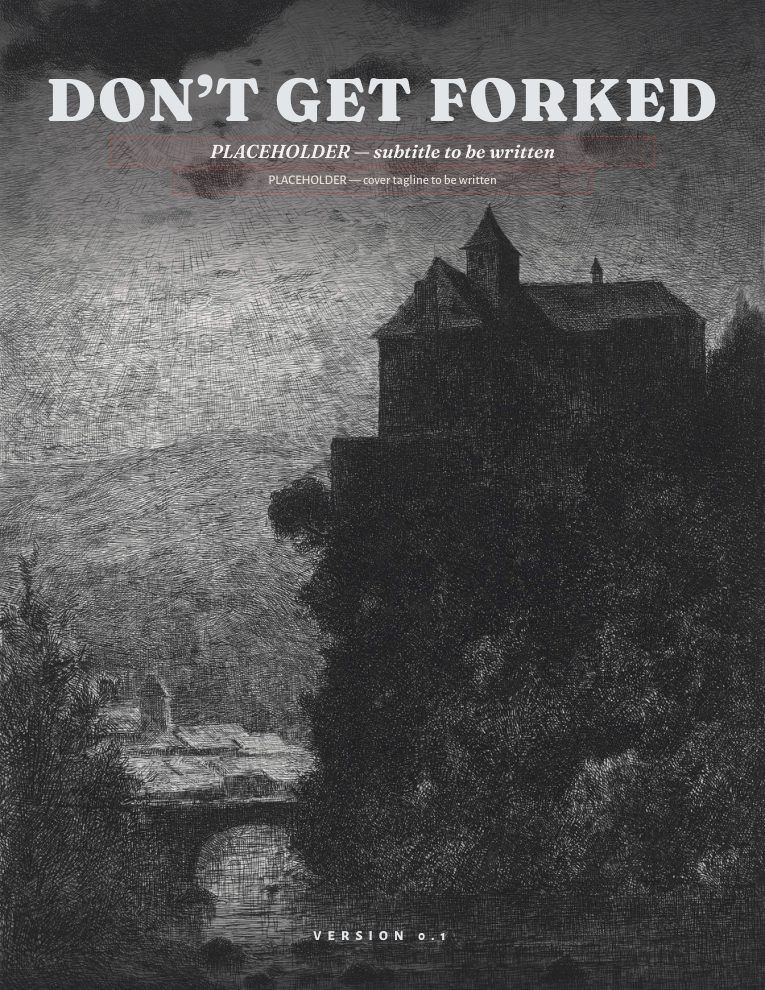
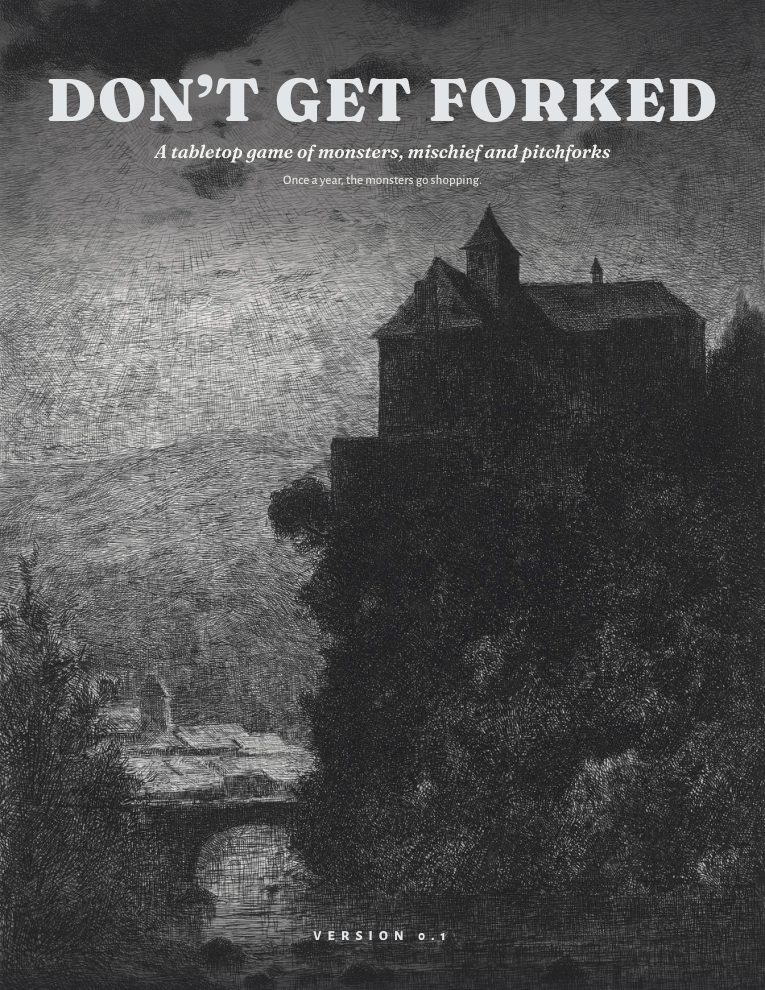
Castle Duties (C10) and the cover, credits and back-cover text (C11)
Six Duties with one shared edge, in Chapter 2, the Foundry config and the simulator; each
Entity's default Duty in its sheet. Subtitle, tagline and blurb replace the cover and
back-cover placeholders; the portal cover picture is refreshed.

Portal-Update: The rulebook cover now has its subtitle and tagline, and the castle's six household jobs are written.

Changed region(s): [[0.2105, 0.1212, 0.8118, 0.2121]]

diff --git a/book/src/chapters/12-ch02.html b/book/src/chapters/12-ch02.html
@@ -47,6 +47,20 @@
     <p>Every ability does one of four things: raise a die one size; use the ability’s trait instead of the one called for; roll the Monster die without risking Suspicion; or open an approach nobody else can take. All of them still need a roll (Chapter 3).</p>
   </aside>
 
+  <h3>Castle Duties</h3>
+  <p>Every Entity keeps one job at the castle and shops for one kind of item. <strong>At a location whose list item is your Duty’s kind, your trait die is one size larger on your own rolls there</strong>; it counts as that roll’s one raise (Chapter 3). Each Entity’s entry gives its default Duty; if two defaults clash in a party, the second player picks another or rolls a d6 again.</p>
+  <div class="keep"><table class="tbl wide">
+    <thead><tr><th>d6</th><th>Duty</th><th>Shops for</th><th>Where in town</th><th>At the castle</th></tr></thead>
+    <tbody>
+      <tr><td class="num">1</td><td><strong>Cook</strong></td><td>food and drink</td><td>the baker, the butcher, the tavern cellar</td><td>Keeps the castle fed and knows every kitchen door</td></tr>
+      <tr><td class="num">2</td><td><strong>Gardener</strong></td><td>plants and seeds</td><td>the market garden, the florist, the seed merchant</td><td>Knows what grows where, and what’s poisonous</td></tr>
+      <tr><td class="num">3</td><td><strong>Librarian</strong></td><td>books and paper</td><td>the bookseller, the printer, the schoolhouse</td><td>Reads the town’s notices and signs</td></tr>
+      <tr><td class="num">4</td><td><strong>Butler</strong></td><td>silver, china and linen</td><td>the silversmith, the china shop</td><td>Knows how fine houses run, and where they keep the good spoons</td></tr>
+      <tr><td class="num">5</td><td><strong>Handyman</strong></td><td>tools and hardware</td><td>the smithy, the ironmonger, the carpenter</td><td>Knows how locks and hinges work</td></tr>
+      <tr><td class="num">6</td><td><strong>Tailor</strong></td><td>cloth and costumes</td><td>the draper, the tailor, the hatter</td><td>Keeps everyone’s disguises in one piece</td></tr>
+    </tbody>
+  </table></div>
+
   <h3>The Eight</h3>
   <article class="entry" id="entity-1">
     <h3>Dracula</h3>
@@ -54,6 +68,7 @@
     <p class="sig"><strong>Mesmerise</strong> (signature): open an approach with Charm. He bends a mind with a look.</p>
     <p class="pick"><strong>Gift: Shape of the Night.</strong> <em>Bat</em> (default): use Nimble instead of the trait called. He flits up to the window. · <em>Mist</em>: roll the Monster die without risking Suspicion. If he shows, it’s only fog. · <em>Wolf</em>: raise a trait die one size. The strength and speed of a wolf.</p>
     <p class="pick"><strong>Perk.</strong> <em>Hypnotic Eyes</em> (default): on Charm rolls, the Monster shows only if it beats your trait die by 2 or more. · <em>Old Money</em>: a Cost on a Charm roll is never Suspicion +1. · <em>Wall-Crawler</em>: in a chase you can always roll Nimble.</p>
+    <p class="pick"><strong>Castle Duty</strong> (default): Butler.</p>
     <p class="sig"><strong>Weakness: Garlic</strong> (Always). Every kitchen in town has some, and the mob knows it.</p>
     <p class="sig"><strong>Tell: No Reflection.</strong> A shop window shows everyone but him.</p>
     <p class="placeholder">PLACEHOLDER — the costume and revealed portraits.</p>
@@ -64,6 +79,7 @@
     <p class="sig"><strong>Brute Force</strong> (signature): use Brawn instead of the trait called. Stronger than any man, it breaks what others pick.</p>
     <p class="pick"><strong>Gift: Made, Not Born.</strong> <em>Mountain Stride</em> (default): open an approach with Nimble. He bounds over walls the way he crossed the glaciers. · <em>Hovel Watcher</em>: roll the Monster die without risking Suspicion. He learned to watch unseen. · <em>Book-Learned</em>: raise a trait die one size. He taught himself from books.</p>
     <p class="pick"><strong>Perk.</strong> <em>Strong Back</em> (default): you carry a Huge piece alone. · <em>Tireless</em>: carrying doesn’t make your Nimble smaller. · <em>Built to Last</em>: you slip free from the lock-up on a Success or a Cost.</p>
+    <p class="pick"><strong>Castle Duty</strong> (default): Handyman.</p>
     <p class="sig"><strong>Weakness: Fire</strong> (Soon). Someone has to light the torches.</p>
     <p class="sig"><strong>Tell: Head and Shoulders.</strong> He stands a head above the whole crowd, and no costume hides it.</p>
     <p class="placeholder">PLACEHOLDER — the costume and revealed portraits.</p>
@@ -74,6 +90,7 @@
     <p class="sig"><strong>Ancient Lore</strong> (signature): use Wits instead of the trait called. It knew this trick three thousand years ago.</p>
     <p class="pick"><strong>Gift: Secrets of the Tomb.</strong> <em>Royal Bearing</em> (default): open an approach with Charm. They still bow to a pharaoh. · <em>Just a Costume</em>: roll the Monster die without risking Suspicion. On festival night, who’d believe a real one? · <em>Old Curse</em>: raise a trait die one size. A muttered curse, and the lock gives.</p>
     <p class="pick"><strong>Perk.</strong> <em>Patience of Ages</em> (default): “lose a Turn” is never your Cost. · <em>Keeper of Treasures</em>: “drop an item” is never your Cost. · <em>Fear the Curse</em>: the mob in your local chase is 1 easier: nobody wants to get too close.</p>
+    <p class="pick"><strong>Castle Duty</strong> (default): Librarian.</p>
     <p class="sig"><strong>Weakness: A Loose Thread</strong> (Soon). Once someone grabs a loose end, it all starts to unravel.</p>
     <p class="sig"><strong>Tell: Dust and Spice.</strong> A trail of dust and a smell of old spices wherever it walks.</p>
     <p class="placeholder">PLACEHOLDER — the costume and revealed portraits.</p>
@@ -84,6 +101,7 @@
     <p class="sig"><strong>Good Dog</strong> (signature): roll the Monster die without risking Suspicion. If the wolf shows, the crowd sees a very large dog.</p>
     <p class="pick"><strong>Gift: The Wolf Within.</strong> <em>Keen Nose</em> (default): use Wits instead of the trait called. It smells the way in. · <em>Through the Hedge</em>: open an approach with Brawn. It goes straight through. · <em>Howl</em>: raise a trait die one size. A howl that freezes the crowd for a moment.</p>
     <p class="pick"><strong>Perk.</strong> <em>Night Runner</em> (default): your local chase starts at Lead 2. · <em>Shortcut</em>: the way out is 2 easier when you roll it. · <em>Fetch</em>: picking up a dropped item doesn’t cost your action.</p>
+    <p class="pick"><strong>Castle Duty</strong> (default): Gardener.</p>
     <p class="sig"><strong>Weakness: Hounds</strong> (Soon). Someone lets the hunting dogs out.</p>
     <p class="sig"><strong>Tell: Eyebrows That Meet.</strong> Brows that meet in the middle, and a little too much hair everywhere.</p>
     <p class="placeholder">PLACEHOLDER — the costume and revealed portraits.</p>
@@ -94,6 +112,7 @@
     <p class="sig"><strong>Unseen</strong> (signature): roll the Monster die without risking Suspicion. When the monster shows, there’s nothing to see.</p>
     <p class="pick"><strong>Gift: A Scientist’s Tricks.</strong> <em>Through the Gap</em> (default): open an approach with Nimble. He slips through as the door swings shut. · <em>Poltergeist</em>: raise a trait die one size. Things move by themselves, and everyone looks the other way. · <em>Work It Out</em>: use Wits instead of the trait called. A scientist’s mind finds another way.</p>
     <p class="pick"><strong>Perk.</strong> <em>Out of Sight</em> (default): trouble gets you caught only while you carry loot or furniture: they can’t see you, but they can see a floating candlestick. · <em>Hidden Pockets</em>: captured, you keep what you carry. · <em>Light Step</em>: the loud way costs you no Suspicion.</p>
+    <p class="pick"><strong>Castle Duty</strong> (default): Tailor.</p>
     <p class="sig"><strong>Weakness: Flour</strong> (Soon). Someone throws a bag of flour, and there he is.</p>
     <p class="sig"><strong>Tell: Bandages and Goggles.</strong> A wrapped head, dark goggles, a false nose, and a sneeze from nowhere.</p>
     <p class="placeholder">PLACEHOLDER — the costume and revealed portraits.</p>
@@ -104,6 +123,7 @@
     <p class="sig"><strong>Through the Wall</strong> (signature): open an approach with Sly, but not while you carry loot or furniture: nothing you carry passes through. It drifts in where there’s no door.</p>
     <p class="pick"><strong>Gift: Haunting.</strong> <em>Chill</em> (default): raise a trait die one size. A sudden cold, and fingers fumble. · <em>Whisper</em>: use Charm instead of the trait called. A voice in the ear. · <em>Fade</em>: roll the Monster die without risking Suspicion. A trick of the light.</p>
     <p class="pick"><strong>Perk.</strong> <em>Spectral</em> (default): you get past group obstacles without rolling. · <em>Rattle</em>: the Monster showing on your roll is Suspicion +1, not +2: nobody takes rattling chains seriously. · <em>Already Dead</em>: cornered in a local chase, you lose your next Turn instead of being captured.</p>
+    <p class="pick"><strong>Castle Duty</strong> (default): Butler.</p>
     <p class="sig"><strong>Weakness: Cold Iron</strong> (Always). Horseshoes, railings, a poker from the fire: every street has some.</p>
     <p class="sig"><strong>Tell: Cold Spot.</strong> Candles gutter and breath fogs wherever it drifts.</p>
     <p class="placeholder">PLACEHOLDER — the costume and revealed portraits.</p>
@@ -114,6 +134,7 @@
     <p class="sig"><strong>Hedge Spell</strong> (signature): raise a trait die one size, on any roll in the same place, hers or a friend’s.</p>
     <p class="pick"><strong>Gift: Witchcraft.</strong> <em>Broomstick</em> (default): open an approach with Sly. In over the rooftops, quiet as an owl. · <em>Black Cat</em>: roll the Monster die without risking Suspicion. Everyone blames the cat. · <em>A Potion for That</em>: use Wits instead of the trait called. There’s a potion for everything.</p>
     <p class="pick"><strong>Perk.</strong> <em>Familiar’s Warning</em> (default): when you arrive, a Tell check goes off only if a second d6 also rolls 4–6: the cat warns you. · <em>Fly by Night</em>: in a chase you can always roll Wits. · <em>Wise Woman</em>: a Cost on your Wits roll is never “lose a Turn”.</p>
+    <p class="pick"><strong>Castle Duty</strong> (default): Cook.</p>
     <p class="sig"><strong>Weakness: Rowan</strong> (Soon). A sprig of rowan, the old charm against witches: somebody’s grandmother always has one.</p>
     <p class="sig"><strong>Tell: A Black Cat.</strong> A black cat follows her everywhere and stares at people.</p>
     <p class="placeholder">PLACEHOLDER — the costume and revealed portraits.</p>
@@ -125,6 +146,7 @@
     <p class="sig"><strong>The Draught</strong> (signature): change form, Jekyll to Hyde or back; the new form lasts until the next draught. When the Monster shows on one of Jekyll’s rolls, Hyde takes over, free.</p>
     <p class="pick"><strong>Gift: The Other Self.</strong> <em>Doctor’s Bag</em> (default): raise a trait die one size. The right instrument for the job. · <em>Pillar of Society</em>: roll the Monster die without risking Suspicion. A respectable doctor having a funny turn (if the Monster shows, Hyde still takes over). · <em>Trample</em>: open an approach with Brawn. A d4 as Jekyll, a d12 as Hyde.</p>
     <p class="pick"><strong>Perk.</strong> <em>Practised Hand</em> (default): changing back to Jekyll costs no charge. · <em>Steady Nerves</em>: Hyde takes over only if the Monster beats your trait die by 2 or more. · <em>Brute Strength</em>: as Hyde, carrying doesn’t make your Nimble smaller.</p>
+    <p class="pick"><strong>Castle Duty</strong> (default): Librarian.</p>
     <p class="sig"><strong>Weakness: A Familiar Face</strong> (Soon). Someone in the mob recognises the good doctor.</p>
     <p class="sig"><strong>Tell: The Wrong Hand.</strong> One hand a gentleman’s, the other hairy and knotted.</p>
     <p class="placeholder">PLACEHOLDER — the costume and revealed portraits.</p>

diff --git a/book/src/chapters/99-back-cover.html b/book/src/chapters/99-back-cover.html
@@ -1,9 +1,10 @@
 <section class="back-cover" id="back-cover">
   <div class="back-inner">
-    <p class="back-lead placeholder">PLACEHOLDER — back-cover headline</p>
-    <p class="placeholder">PLACEHOLDER — back-cover text to be written.</p>
+    <p class="back-lead">Once a year, the monsters go shopping.</p>
+    <p>Every year, on festival night, the whole town dresses up as monsters. Every year, a few real ones walk in with them.</p>
+    <p>You play Dracula, Frankenstein’s creature, the Mummy, the Werewolf, the Invisible Man, a Ghost, a Witch or Jekyll &amp; Hyde: housemates in a crumbling castle with a shopping list to fill before dawn. Hide behind the Mask, or let the Monster out and risk the town’s Suspicion. Grab what the castle needs, and maybe a nice armchair. And if it all goes wrong, run, because the mob has pitchforks.</p>
     <figure class="art back-art" data-art="back-moonrise"></figure>
-    <p class="back-tagline placeholder">PLACEHOLDER — tagline to be written</p>
+    <p class="back-tagline">For 3–5 players and a Storyteller · 2–3 hours · ages 12+ · play online with the Foundry Virtual Tabletop system</p>
     <p class="back-title">Don’t Get Forked <span>· Version 0.1</span></p>
   </div>
 </section>

diff --git a/book/src/chapters/14-ch04.html b/book/src/chapters/14-ch04.html
@@ -9,7 +9,7 @@
   <p class="placeholder">PLACEHOLDER — the festival’s name and customs.</p>
 
   <h3>The Shopping List</h3>
-  <p>Before the raid, the Storyteller rolls the shopping list on a table (premade raids give their own): <strong>3 items on Easy, 4 on Standard and Hard</strong>. One or two are <strong>essentials</strong>; the rest are <strong>extras</strong>. Each item points to a kind of location in town.</p>
+  <p>Before the raid, the Storyteller rolls the shopping list on a table (premade raids give their own): <strong>3 items on Easy, 4 on Standard and Hard</strong>. One or two are <strong>essentials</strong>; the rest are <strong>extras</strong>. Each item is one of six kinds (Chapter 2).</p>
 
   <h3>The Town</h3>
   <p>Every town is built from the same parts:</p>

diff --git a/book/src/chapters/00-cover.html b/book/src/chapters/00-cover.html
@@ -1,7 +1,7 @@
 <section class="cover" id="cover">
   <h1 class="cover-title">Don’t Get Forked</h1>
-  <p class="cover-subtitle placeholder">PLACEHOLDER — subtitle to be written</p>
-  <p class="cover-tagline placeholder">PLACEHOLDER — cover tagline to be written</p>
+  <p class="cover-subtitle">A tabletop game of monsters, mischief and pitchforks</p>
+  <p class="cover-tagline">Once a year, the monsters go shopping.</p>
   <p class="cover-edition">Version 0.1</p>
   <figure class="art cover-art" data-art="cover-castle"></figure>
 </section>

diff --git a/book/src/chapters/01-credits.html b/book/src/chapters/01-credits.html
@@ -1,6 +1,6 @@
 <section class="credits" id="credits">
   <h2 class="credits-title">Don’t Get Forked</h2>
-  <p class="credits-sub placeholder">PLACEHOLDER — subtitle to be written</p>
+  <p class="credits-sub">A tabletop game of monsters, mischief and pitchforks</p>
   <p class="credits-edition">Version 0.1</p>
 
   <dl class="credits-list">

diff --git a/docs/DESIGN.md b/docs/DESIGN.md
@@ -80,6 +80,8 @@ Living document. The **Pitch** is Richard's. **Decisions** are only what Richard
 | 2026-10-05 | **C7 — the Mummy and the Werewolf, full sheets.** The Mummy: Gift **Secrets of the Tomb** (Royal Bearing: open an approach with Charm, default · Just a Costume: the Monster die without risking Suspicion · Old Curse: raise a die); Perk **Patience of Ages** (default: "lose a Turn" is never your Cost) · **Keeper of Treasures** ("drop an item" is never your Cost) · **Fear the Curse** (the mob in your local chase is 1 easier); Weakness **A Loose Thread, Soon**; Tell **Dust and Spice**. The Werewolf: Gift **The Wolf Within** (Keen Nose: use Wits instead, default · Through the Hedge: open an approach with Brawn · Howl: raise a die); Perk **Night Runner** (default: your local chase starts at Lead 2) · **Shortcut** (the way out is 2 easier when you roll it) · **Fetch** (picking up a dropped item doesn't cost your action); Weakness **Hounds, Soon**; Tell **Eyebrows That Meet**. | As recommended; from Conan Doyle, Loudon and Victorian tales and folklore (no film silver or wolfsbane). Simulated: every Gift and Perk within ±1.7; the Mummy −1.0, the Werewolf +0.1 |
 | 2026-10-05 | **C8 — the Invisible Man and a Ghost, full sheets; Through the Wall changed.** The Invisible Man: Gift **A Scientist's Tricks** (Through the Gap: open an approach with Nimble, default · Poltergeist: raise a die · Work It Out: use Wits instead); Perk **Out of Sight** (default: Trouble gets you caught only while you carry loot or furniture) · **Hidden Pockets** (captured, you keep what you carry) · **Light Step** (the loud way costs you no Suspicion); Weakness **Flour, Soon**; Tell **Bandages and Goggles**. A Ghost: Gift **Haunting** (Chill: raise a die, default · Whisper: use Charm instead · Fade: the Monster die without risking Suspicion); Perk **Spectral** (default: past group obstacles without rolling) · **Rattle** (the Monster showing on your roll is +1 Suspicion, not +2) · **Already Dead** (cornered in a local chase, you lose your next Turn instead of being captured); Weakness **Cold Iron, Always**; Tell **Cold Spot**. **Through the Wall** now opens an approach with **Sly** (not Nimble) and can't be used while the Ghost carries loot or furniture. | As recommended; from Wells, Wilde and folklore. The Ghost simulated at +3.8 win points with the old Through the Wall (target ±2.5); with the change +1.5 to +2.2. Every Gift and Perk within ±2.0 |
 | 2026-10-05 | **C9 — the Witch and Jekyll & Hyde, full sheets.** A Witch: Gift **Witchcraft** (Broomstick: open an approach with Sly, default · Black Cat: the Monster die without risking Suspicion · A Potion for That: use Wits instead); Perk **Familiar's Warning** (default: a Tell check where you arrive goes off only if a second d6 also rolls 4–6) · **Fly by Night** (in a chase you can always roll Wits) · **Wise Woman** (a Cost on your Wits roll is never "lose a Turn"); Weakness **Rowan, Soon**; Tell **A Black Cat**. Jekyll & Hyde: Gift **The Other Self** (Doctor's Bag: raise a die, default · Pillar of Society: the Monster die without risking Suspicion · Trample: open an approach with Brawn); Perk **Practised Hand** (default: changing back to Jekyll costs no charge) · **Steady Nerves** (Hyde takes over only if the Monster beats the trait die by 2+) · **Brute Strength** (as Hyde, carrying doesn't make Nimble smaller); Weakness **A Familiar Face, Soon**; Tell **The Wrong Hand**. | As recommended; from folklore (no film water) and Stevenson. All eight Entities now written. Simulated, full roster: Entities −1.4 to +2.1, Gifts and Perks −2.0 to +1.8 win points (target ±2.5) |
+| 2026-10-05 | **C10 — the Castle Duties:** six, one per kind of list item (a d6): **Cook** (food and drink), **Gardener** (plants and seeds), **Librarian** (books and paper), **Butler** (silver, china and linen), **Handyman** (tools and hardware), **Tailor** (cloth and costumes), each with its shops in town and a role at the castle. One shared edge: at a location whose list item is your Duty's kind, your trait die is one size larger on your own rolls there (it counts as the roll's one raise). Defaults: Dracula Butler, the creature Handyman, the Mummy Librarian, the Werewolf Gardener, the Invisible Man Tailor, the Ghost Butler, the Witch Cook, Jekyll & Hyde Librarian; if two defaults clash, the second picks another or rolls again. | As recommended (A over a distinct edge per Duty). One rule, fair by design; simulated Duties −0.6 to +1.0 win points |
+| 2026-10-05 | **C11 — cover and back-cover text:** subtitle "A tabletop game of monsters, mischief and pitchforks"; tagline "Once a year, the monsters go shopping."; the back-cover blurb as proposed (festival night, the eight Entities, Mask or Monster, the shopping list, the armchair, the pitchforks; 3–5 players and a Storyteller, 2–3 hours, 12+, Foundry). | As recommended |
 
 ## Open questions (work through these with Richard, roughly in this order)
 1. **Engine.** *Decided 2026-10-04: a new system using step dice, with guardrails 1 and 2 (see the Decisions log).* Left for later: the second die (Q3), Difficulty numbers, bands and Criticals (simulator), the Monster die (Q4). Heisty's engine is a d6 pool with Successes on 5–6, Difficulty, an Alert track to a Limit, and Silk Points; it is fully simulated, balanced and automated in Foundry. Options include reusing it as-is, reusing its core dice with new subsystems, or a new resolution system.

diff --git a/docs/CORE-RULES.md b/docs/CORE-RULES.md
@@ -1,6 +1,6 @@
-# Don't Get Forked — core rules (1.6)
+# Don't Get Forked — core rules (1.7)
 
-*Approved by Richard on 2026-10-05. 1.1 (2026-10-05) adds wording clarifications from playtests PT1–PT2 [W]; 1.2 (2026-10-05) adds Richard's rulings T1–T10 on the questions those playtests raised; 1.3 (2026-10-05) adds wording clarifications from verification playtest PT3 (also marked [W]); 1.4 (2026-10-05) adds rulings U1–U2 and the Entities' dice (C1); 1.5 adds their signature abilities (C2, C2b); 1.6 sets when Weaknesses bite (C3), the Tell chance (C4) and what a Perk is (C5). It summarises the decisions in `docs/DESIGN.md`; the rulebook chapters are written from it. **[S9]** marks a number set in the Starting numbers table. **[P1]**–**[P8]** mark the gap fills Richard approved on 2026-10-04 (listed at the end). **[W]** marks a playtest wording clarification (what the decisions and the simulator already did).*
+*Approved by Richard on 2026-10-05. 1.1 (2026-10-05) adds wording clarifications from playtests PT1–PT2 [W]; 1.2 (2026-10-05) adds Richard's rulings T1–T10 on the questions those playtests raised; 1.3 (2026-10-05) adds wording clarifications from verification playtest PT3 (also marked [W]); 1.4 (2026-10-05) adds rulings U1–U2 and the Entities' dice (C1); 1.5 adds their signature abilities (C2, C2b); 1.6 sets when Weaknesses bite (C3), the Tell chance (C4) and what a Perk is (C5); 1.7 adds the Castle Duties (C10). It summarises the decisions in `docs/DESIGN.md`; the rulebook chapters are written from it. **[S9]** marks a number set in the Starting numbers table. **[P1]**–**[P8]** mark the gap fills Richard approved on 2026-10-04 (listed at the end). **[W]** marks a playtest wording clarification (what the decisions and the simulator already did).*
 
 ## The game
 The players are classic monsters who share a castle in the woods. Once a year, on the town's festival night, when everyone is in costume, they go down to steal what the castle needs. They must get the shopping list home before dawn, and if the job goes wrong, outrun the mob before it corners them with pitchforks. Each session is one raid on a new town and stands alone: 3–5 players and a Storyteller, 2–3 hours, horror-comedy for about 12+.
@@ -23,7 +23,7 @@ The players are classic monsters who share a castle in the woods. Once a year, o
 | Jekyll & Hyde: Hyde | d12 | d10 | d8 | d4 | d6 | |
 
 - **Fixed per Entity:** the dice arrangement, a signature ability, a **Weakness** (something the town can use against it) and a **Tell** (how it gives itself away).
-- **Three picks**, each with a marked default and a random-table entry: a **Gift** (one of three versions of its second ability), a **Perk** (one of three passive edges; each bends one rule in one situation, every time, with nothing to track [C5]) and a **Castle Duty** (one of about six shared household jobs, with a small edge tied to the shopping list; no two Entities in a party take the same one [R8]).
+- **Three picks**, each with a marked default and a random-table entry: a **Gift** (one of three versions of its second ability), a **Perk** (one of three passive edges; each bends one rule in one situation, every time, with nothing to track [C5]) and a **Castle Duty** (one of six shared household jobs, each matching one of the six kinds of list item: Cook, Gardener, Librarian, Butler, Handyman, Tailor; at a location whose list item is your Duty's kind, your trait die is one size larger on your own rolls there, counting as the roll's one raise [C10]; no two Entities in a party take the same one [R8]).
 - **Charges:** the same number for every Entity **[S9: 3]**, refilled once a year; unspent charges are lost. One charge = one use of an ability.
 
 ## Rolling
@@ -104,4 +104,4 @@ Every label: 3 charges; 12 Turns; overdraw +2 Suspicion; a local chase's Lead st
 | P8 | Win / Partial / Bust | Win = all essentials + at most one extra missing; Partial = at least half home; Bust = less | approved 2026-10-04 |
 | — | Critical rule | Doubles on a Success; +2 Lead in a chase, otherwise a charge back | decided (S8) |
 | — | Numbers | See Starting numbers above | decided (S9) |
-| — | Content | The eight Entities are done (C1–C9, rulebook Chapter 2). Still to write: Castle Duties; chase table; festival; shopping list and town tables; epilogue table; campaign upgrades | Richard |
+| — | Content | The eight Entities are done (C1–C9, rulebook Chapter 2). Still to write: chase table; festival; shopping list and town tables; epilogue table; campaign upgrades | Richard |

diff --git a/book/REVIEW.md b/book/REVIEW.md
@@ -29,3 +29,4 @@ why, and the source (author / playtest / simulator). Rows 1–12 point at `docs/
 | 22 | 2026-10-05 | Chapter 2; CORE-RULES | C8: the Invisible Man's and the Ghost's Gifts, Perks, Weaknesses and Tells; Through the Wall opens with Sly and not while carrying | Simulated: the Ghost was over the ±2.5 target (+3.8) | author (simulator) |
 | 23 | 2026-10-05 | Chapter 2 | C9: the Witch's and Jekyll & Hyde's Gifts, Perks, Weaknesses and Tells; Perk texts keep names capitalised | Content interview | author |
 | 24 | 2026-10-05 | Cover, part pages, chapter headers, back cover, spots; credits page | Stand-in art: 17 public-domain prints (sources, licences and checklist audits in book/art/stand-in/SOURCES.md), credited by artist on the credits page; the keys spot was dropped (a specimen plate whose small parts float); chapter headers cut to the frame's real shape (about 4:1), and the illustrator brief corrected to match | Richard's decision (stand-in art) | author |
+| 25 | 2026-10-05 | Chapters 2 and 4; cover, credits, back cover; CORE-RULES 1.7 | C10: the Castle Duties table and edge in Chapter 2, each Entity's default Duty in its entry, list items as six kinds in Chapter 4. C11: the subtitle, tagline and back-cover blurb | Content interview | author |

diff --git a/PORTAL.md b/PORTAL.md
@@ -1,6 +1,6 @@
-Now: All eight monsters are written and the rulebook has stand-in pictures: old public-domain engravings until the illustrator's art arrives. Waiting on the author's call on the castle's household jobs.
-Next: The castle's household jobs, the chase table and the festival, decided with the author.
-Number: Design decisions made = 62
+Now: The castle's household jobs and the cover text are in. Finding old public-domain pictures of each monster to fill the portrait spaces.
+Next: The chase table and the festival, decided with the author.
+Number: Design decisions made = 64
 Number: Open design questions = 0
 Number: Simulated raids per balance check = 18000
 
@@ -31,6 +31,8 @@ Screenshot: docs/portal/cover.jpg = The rulebook's cover, with a 19th-century et
 - [x] Set the eight monsters' signature powers
 - [x] Write the eight monsters: second powers, perks, weaknesses and tells
 - [x] Stand-in art in the rulebook (free public-domain engravings)
+- [x] Castle Duties and the cover text
+- [ ] Monster portraits filled with stand-in pictures
 - [x] Rules chapters drafted (the monsters, towns and art still to come)
 - [ ] First full rulebook draft
 - [ ] Balance pass in the simulator
